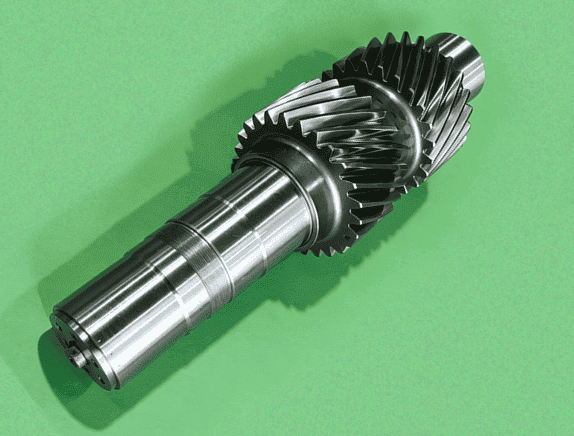
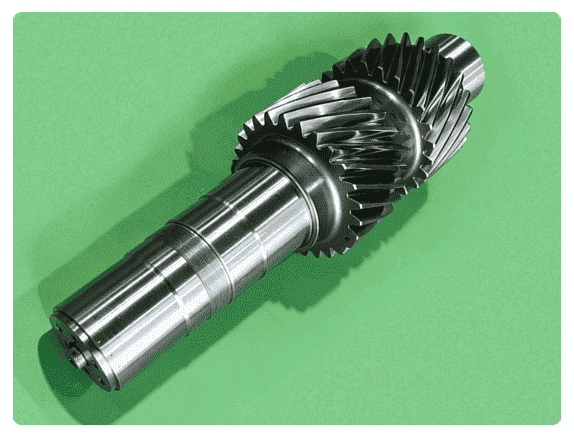
변경 및 개선

diff --git a/gear.html b/gear.html
@@ -518,15 +518,15 @@
 
   .gallery-card-img {
     width: 100%;
-    height: 300px;
+    height: auto;
     overflow: hidden;
     background-color: #f1f5f9;
   }
 
   .gallery-card-img img {
     width: 100%;
-    height: 100%;
-    object-fit: cover;
+    height: auto;
+    object-fit: contain;
     display: block;
   }
 
@@ -536,6 +536,7 @@
   }
 
   .gear-feature-gallery .gallery-card-img img {
+    height: 100%;
     object-fit: contain;
   }
 
@@ -794,7 +795,7 @@
       gap: 10px;
     }
     .gallery-card-img {
-      height: 240px;
+      height: auto;
     }
     .gear-feature-gallery .gallery-card-img {
       height: 320px;
